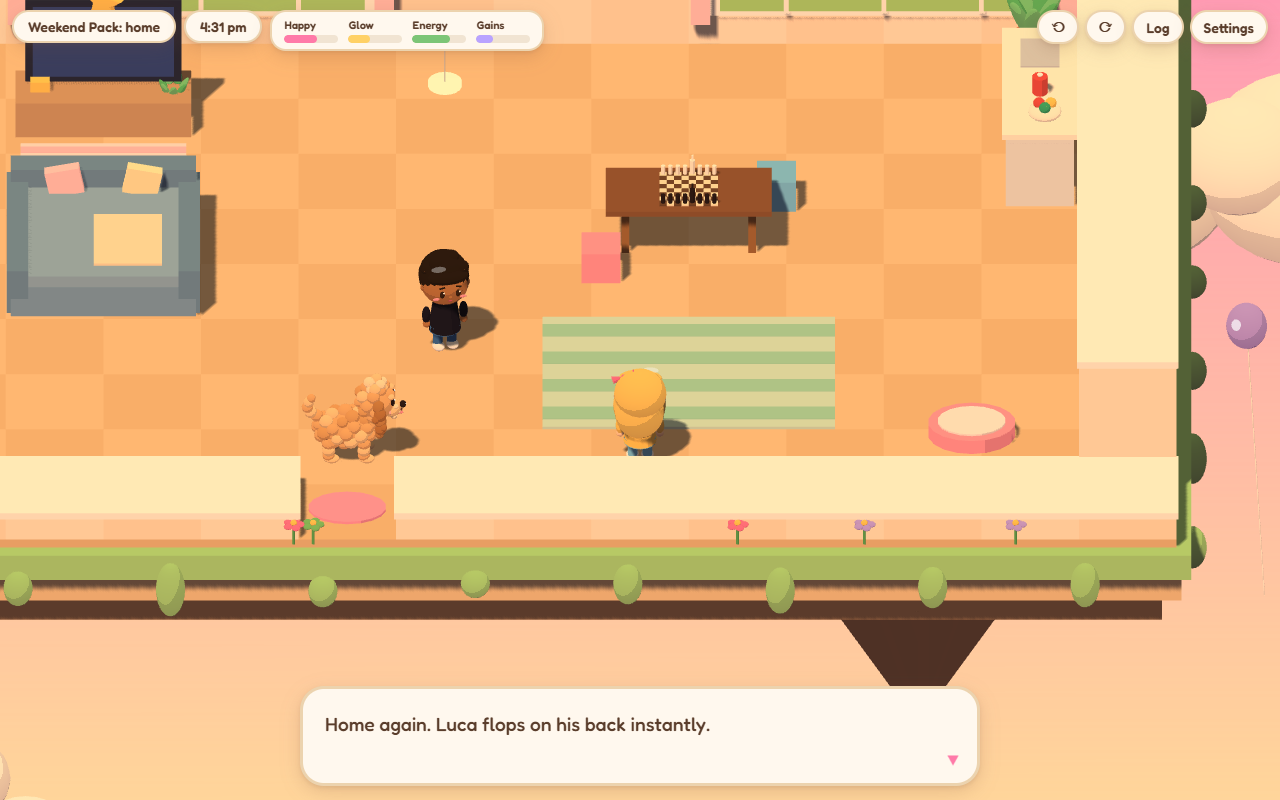
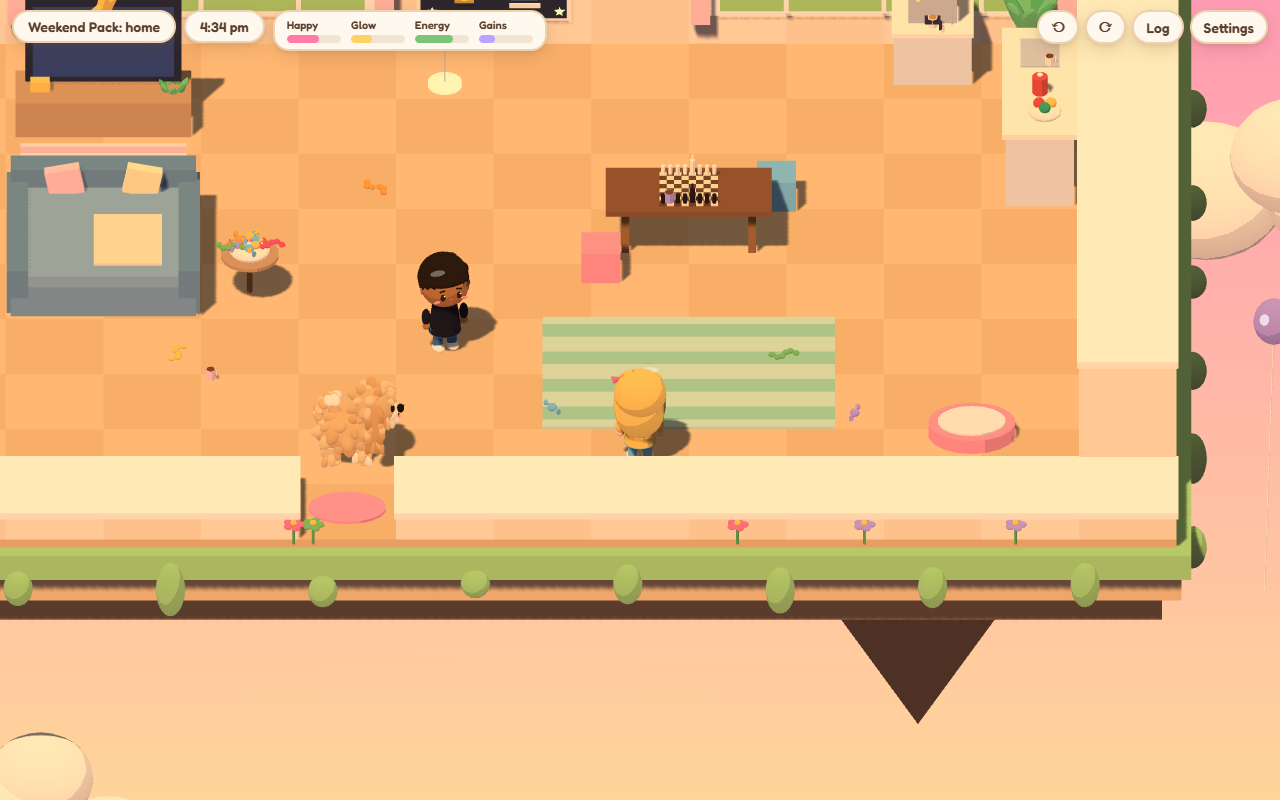
feat(v2): lived-in rooms - rap poster, coffee and lollies
Bedroom: original rap poster, coffee pod station, lolly jar on the
nightstand, mugs and wrapped lollies scattered about. Weekend home:
the same poster, an espresso machine, a lolly bowl, snakes and mugs.

Claude-Session: https://claude.ai/code/session_018Gqj7KPQujXrDxQhtBq1g4

diff --git a/v2/index.html b/v2/index.html
@@ -934,6 +934,58 @@ function makeFairyLights(parent, x0, z0, x1, z1, y, n) {
   for (let i = 0; i <= n; i++) { const t = i / n; const sag = Math.sin(t * Math.PI) * 0.35; const b = mk(G_SPH, cols[i % 4], [0.09, 0.11, 0.09], [lerp(x0, x1, t), y - sag, lerp(z0, z1, t)], g, { glow: true }); b.userData.tw = Math.random() * TAU; }
   g.userData.fairy = true; return g;
 }
+/* ---------------- little lived-in details: lollies, coffee, a rap poster ---------------- */
+const LOLLY_COLS = ['#ff5c7a', '#ffd166', '#7fc8f8', '#7cc576', '#b9a3ff', '#ffa94d'];
+// a wrapped lolly: a round sweet with twisted wrapper ends
+function makeLolly(parent, x, y, z, col, rot) {
+  const g = grp(parent, x, y, z); g.rotation.y = rot || 0;
+  mk(G_SPH, col, [0.1, 0.08, 0.1], [0, 0.04, 0], g, { noShadow: true });
+  [-1, 1].forEach(s => { const e = mk(G_CONE, col, [0.07, 0.07, 0.05], [s * 0.08, 0.04, 0], g, { noShadow: true }); e.rotation.z = s * Math.PI / 2; });
+  return g;
+}
+// a jelly snake, curled in an S
+function makeSnake(parent, x, y, z, col, rot) {
+  const g = grp(parent, x, y, z); g.rotation.y = rot || 0;
+  for (let i = 0; i < 6; i++) mk(G_SPH, i === 5 ? col : [col, '#fff4e0'][i % 2 && i > 3 ? 1 : 0], [0.07, 0.05, 0.07], [i * 0.05, 0.03, Math.sin(i * 1.3) * 0.05], g, { noShadow: true });
+  return g;
+}
+function makeMug(parent, x, y, z, col, coffee) {
+  const g = grp(parent, x, y, z);
+  mk(G_CYL, col || '#fffaf0', [0.1, 0.11, 0.1], [0, 0.055, 0], g); mk(G_CYL, coffee || '#7a4a2a', [0.085, 0.01, 0.085], [0, 0.108, 0], g, { noShadow: true });
+  const h = mk(geo('ring', () => new THREE.TorusGeometry(0.5, 0.12, 6, 16)), col || '#fffaf0', [0.06, 0.06, 0.06], [0.06, 0.06, 0], g, { noShadow: true }); h.rotation.y = Math.PI / 2;
+  return g;
+}
+function makeLollyJar(parent, x, y, z) {
+  const g = grp(parent, x, y, z);
+  for (let i = 0; i < 14; i++) mk(G_SPH, LOLLY_COLS[i % 6], [0.07, 0.07, 0.07], [Math.cos(i * 2.1) * 0.06, 0.05 + Math.floor(i / 4) * 0.055, Math.sin(i * 2.1) * 0.06], g, { noShadow: true });
+  mk(G_CYL, '#e8f7ff', [0.26, 0.3, 0.26], [0, 0.15, 0], g, { alpha: 0.35, noShadow: true });
+  mk(G_CYL, '#ff7aa8', [0.2, 0.06, 0.2], [0, 0.32, 0], g); mk(G_SPH, '#ffd1e1', [0.08, 0.05, 0.08], [0, 0.36, 0], g);
+  return g;
+}
+// an original rap poster: gold mic, crown, stars and title bars (no real artwork)
+function makeRapPoster(w) {
+  const g = new THREE.Group(), pw = Math.min(1.5, w * 0.8);
+  mk(G_BOX, '#fffaf0', [pw + 0.08, 1.08, 0.05], [0, 0.85, 0.01], g);
+  mk(G_BOX, '#2b2d42', [pw, 1.0, 0.06], [0, 0.85, 0.02], g);
+  mk(G_BOX, '#ff5c7a', [pw, 0.12, 0.065], [0, 1.24, 0.02], g, { noShadow: true });
+  const mic = grp(g, -pw * 0.2, 0.78, 0.07); mk(G_SPH, '#ffd166', [0.18, 0.2, 0.08], [0, 0.14, 0], mic, { glow: true }); mk(G_BOX, '#ffd166', [0.06, 0.26, 0.04], [0, -0.06, 0], mic, { glow: true }); mk(G_BOX, '#c9a24a', [0.2, 0.03, 0.04], [0, -0.2, 0], mic);
+  const cr = grp(g, pw * 0.2, 0.98, 0.07); mk(G_BOX, '#ffd166', [0.3, 0.07, 0.03], [0, 0, 0], cr, { glow: true }); [-0.1, 0, 0.1].forEach(x => mk(G_CONE, '#ffd166', [0.07, 0.12, 0.03], [x, 0.09, 0], cr, { glow: true }));
+  [[0.2, 0.72, 0.36, '#fffaf0'], [0.2, 0.62, 0.28, '#7fc8f8'], [0.2, 0.52, 0.32, '#fffaf0']].forEach(([x, y, l, c]) => mk(G_BOX, c, [l, 0.05, 0.02], [pw * x + 0.02, y, 0.07], g, { noShadow: true }));
+  [[-0.5, 1.08], [0.45, 0.45], [-0.42, 0.45]].forEach(([x, y]) => mk(G_STAR, '#fff4b0', [0.1, 0.1, 0.1], [x * pw, y, 0.07], g, { noShadow: true, glow: true }));
+  return g;
+}
+WALL_BUILDERS['bedroom:R'] = makeRapPoster;
+WALL_BUILDERS['home:R'] = makeRapPoster;
+// bedroom coffee station: a little cart with a pod machine, pods and mugs
+OBJ_BUILDERS['bedroom:C'] = () => {
+  const g = new THREE.Group();
+  mk(G_BOX, '#ffe3ec', [0.8, 0.62, 0.55], [0, 0.31, 0], g); mk(G_BOX, '#fffaf0', [0.86, 0.05, 0.6], [0, 0.64, 0], g);
+  mk(G_BOX, '#3a3148', [0.28, 0.36, 0.3], [-0.16, 0.84, -0.05], g); mk(G_BOX, '#ff9fb8', [0.2, 0.05, 0.02], [-0.16, 0.9, 0.11], g, { glow: true }); mk(G_CYL, '#c7ccd6', [0.05, 0.06, 0.05], [-0.16, 0.72, 0.07], g, { noShadow: true });
+  for (let i = 0; i < 6; i++) mk(G_CYL, LOLLY_COLS[i], [0.06, 0.04, 0.06], [0.1 + (i % 3) * 0.08, 0.68, -0.1 + Math.floor(i / 3) * 0.08], g, { noShadow: true });
+  makeMug(g, 0.25, 0.665, 0.14, '#ffd1e1'); makeMug(g, -0.16, 0.665, 0.12, '#fffaf0');
+  return g;
+};
+OBJ_BUILDERS['bedroom:j'] = () => { const g = new THREE.Group(); mk(G_CYL, '#fff0f6', [0.55, 0.5, 0.55], [0, 0.25, 0], g); mk(G_CYL, '#ffd1e1', [0.6, 0.05, 0.6], [0, 0.52, 0], g); makeLollyJar(g, -0.08, 0.545, 0); makeMug(g, 0.17, 0.545, 0.1, '#b9a3ff'); return g; };
 function makePlant(parent, x, z, big) {
   const g = grp(parent, x, 0, z), s = big ? 1.3 : 1;
   mk(G_CYL, '#e8916b', [0.32 * s, 0.3 * s, 0.32 * s], [0, 0.15 * s, 0], g); mk(G_CYL, '#d97a55', [0.36 * s, 0.06, 0.36 * s], [0, 0.3 * s, 0], g);
@@ -1595,10 +1647,16 @@ const MAPS = {
   bedroom: {
     theme: 'bedroom', title: 'Chapter 1: Wake up', sky: 'morning', edge: GRASS,
     floor: ['#f6e3ff', '#efd8fb'], wall: ['#ffd1e1', '#ffc6da'],
-    rows: ["#o######GGGG###", "#..ww.kk.vv.bb#", "#.........x.bb#", "#........S....#", "#..x..........#", "#.............#", "#.......x.....#", "#.....h.......#", "#..M..........#", "######D########"],
+    rows: ["#o###R##GGGG###", "#..ww.kk.vvjbb#", "#.........x.bb#", "#........S....#", "#..x..........#", "#............C#", "#.......x.....#", "#.....h.......#", "#..M..........#", "######D########"],
     start: { x: 7, z: 5, dir: 'down' }, luca: { x: 8, z: 5 },
     npcs: c => c === 'M' ? LOOK.mum : null,
-    decorate(g) { mk(G_CYL, '#ffc2d6', [4.2, 0.03, 3], [6.5, 0.015, 5], g, { noShadow: true }); mk(G_CYL, '#fff0f6', [3.2, 0.035, 2.2], [6.5, 0.02, 5], g, { noShadow: true }); },
+    decorate(g) {
+      mk(G_CYL, '#ffc2d6', [4.2, 0.03, 3], [6.5, 0.015, 5], g, { noShadow: true }); mk(G_CYL, '#fff0f6', [3.2, 0.035, 2.2], [6.5, 0.02, 5], g, { noShadow: true });
+      // lollies and coffee cups everywhere: a well-loved room
+      [[5.2, 4.3], [5.6, 4.6], [7.9, 5.9], [8.3, 4.2], [4.6, 5.7], [11.4, 3.2], [11.8, 3.5], [2.2, 6.6], [12.6, 7.4]].forEach(([x, z], i) => (i % 3 === 2 ? makeSnake : makeLolly)(g, x, 0.03, z, LOLLY_COLS[i % 6], i * 0.9));
+      makeMug(g, 10.25, 0.5, 1.2, '#7fc8f8'); makeMug(g, 6.2, 1.32, 0.95, '#ffd1e1'); makeMug(g, 3.2, 0.02, 7.7, '#fffaf0');
+      for (let i = 0; i < 4; i++) makeLolly(g, 6.65 + i * 0.13, 1.33, 0.95, LOLLY_COLS[(i + 2) % 6], i);
+    },
     hints: () => [!F.outfit && 'w', !F.skincare && 'v', !F.music && 'S', !F.mum && 'M', F.outfit && F.skincare && F.music && 'D'],
     onEnter() {
       G.wearing = 'pj';
@@ -1615,6 +1673,9 @@ const MAPS = {
       k: () => say(["Sooo many books! Thank goodness I have a Kobo."], () => secret('book')),
       o: () => secret('owl'),
       G: () => say("Birthday bunting. Mum was up early."),
+      R: () => say(["A rap poster: gold mic, a crown and a lot of attitude.", "Tupac, J. Cole and Kendrick. The morning hype squad."]),
+      C: () => { const first = !F.bedCoffee; F.bedCoffee = true; if (first) stat('energy', 6, true); say(first ? ["The coffee station. Pods lined up like trophies.", "One quick coffee before the big day. Bzzzt."] : "The coffee station. Maybe just one more pod."); },
+      j: () => { const first = !F.bedLolly; F.bedLolly = true; if (first) stat('happy', 3, true); say(first ? ["The lolly jar: snakes, milk bottles and freckles.", "One for the road. Okay, three."] : "The lolly jar is looking suspiciously empty."); },
       b: () => say("Tempting to crawl back in. But it's your birthday!"),
       M: () => talkMum()
     }
@@ -2313,7 +2374,7 @@ CONFIG.weekend = {
 };
 const WK = CONFIG.weekend;
 BADGES.aisle = { n: 'Centre aisle victim', how: 'Grab an ALDI special buy', pack: true };
-const WK_FLAGS = ['wkBaths', 'wkGroceries', 'wkFetch', 'wkMovie', 'wkActivity'];
+const WK_FLAGS = ['wkBaths', 'wkGroceries', 'wkFetch', 'wkMovie', 'wkActivity', 'wkCoffee', 'wkLolly'];
 Object.assign(SCENE_TIME, { baths: 9 * 60 + 10, aldi: 11 * 60 + 20, park: 14 * 60, home: 16 * 60 + 30, wnight: 19 * 60, wend: 22 * 60 + 30 });
 Object.assign(NPC_CHARS, { baths: 'A', shop: 'A', park: 'Ayko', home: 'A' });
 let WKLOG = {};
@@ -2493,6 +2554,23 @@ OB['home:k'] = (w, h) => {
   return g;
 };
 OB['home:p'] = () => makePlant(null, 0, 0, true);
+// the espresso machine: portafilter, steam wand, cups warming on top
+OB['home:e'] = () => {
+  const g = new THREE.Group();
+  mk(G_BOX, '#e7ebf1', [0.8, 0.6, 0.6], [0, 0.3, -0.05], g); mk(G_BOX, '#fffaf0', [0.84, 0.05, 0.64], [0, 0.62, -0.05], g);
+  mk(G_BOX, '#c7ccd6', [0.5, 0.42, 0.36], [0, 0.86, -0.1], g); mk(G_BOX, '#3a3148', [0.16, 0.05, 0.14], [0, 0.72, 0.1], g); mk(G_CYL, '#3a3148', [0.03, 0.14, 0.03], [0.08, 0.72, 0.22], g).rotation.x = Math.PI / 2;
+  mk(G_CYL, '#c7ccd6', [0.025, 0.2, 0.025], [0.2, 0.74, 0.08], g, { noShadow: true }); mk(G_SPH, '#ffd166', [0.05, 0.05, 0.05], [-0.15, 0.95, 0.09], g, { glow: true });
+  makeMug(g, 0, 0.645, 0.12, '#fffaf0', '#c8955e'); [-0.12, 0.12].forEach(x => makeMug(g, x, 1.07, -0.1, '#ffd1e1'));
+  return g;
+};
+// a side table with the lolly bowl
+OB['home:j'] = () => {
+  const g = new THREE.Group();
+  mk(G_CYL, '#c89f7a', [0.6, 0.04, 0.6], [0, 0.46, 0], g); mk(G_CYL, '#a8744f', [0.06, 0.46, 0.06], [0, 0.23, 0], g);
+  mk(G_SPH, '#fffaf0', [0.42, 0.18, 0.42], [0, 0.52, 0], g);
+  for (let i = 0; i < 9; i++) (i % 3 ? makeLolly : makeSnake)(g, Math.cos(i * 0.7) * 0.1 - 0.02, 0.56 + (i % 2) * 0.02, Math.sin(i * 0.7) * 0.1, LOLLY_COLS[i % 6], i);
+  return g;
+};
 WALL_BUILDERS['home:w'] = w => {
   const g = new THREE.Group();
   mk(G_BOX, '#ffffff', [w * 0.92, 0.95, 0.08], [0, 0.85, 0], g); mk(G_BOX, '#bfe6ff', [w * 0.84, 0.8, 0.05], [0, 0.85, 0.03], g, { noShadow: true });
@@ -2618,12 +2696,15 @@ MAPS.park = {
 MAPS.home = {
   theme: 'home', title: 'Weekend Pack: home', sky: 'golden', edge: '#a6dc8f',
   floor: ['#e9c9a0', '#e2bf94'], wall: ['#fff1e0', '#ffe9d2'], trim: '#ffffff',
-  rows: ["###wwww###wwww#", "#............p#", "#..VV........k#", "#..VV........k#", "#..ff....HH...#", "#..ff.........#", "#......A......#", "#.............#", "#.............#", "######D########"],
+  rows: ["###wwwwRR#wwww#", "#...........ep#", "#..VV........k#", "#..VV........k#", "#..ff....HH...#", "#..ffj........#", "#......A......#", "#.............#", "#.............#", "######D########"],
   start: { x: 9, z: 8, dir: 'up' }, luca: { x: 6, z: 8 },
   npcs: npcPaulo,
   hints: () => [!F.wkMovie && 'V', F.wkMovie && !F.wkActivity && 'H', F.wkMovie && F.wkActivity && 'D'],
   decorate(g) {
     makeRug(g, 9.5, 6.5, 3, 2, ['#c9e7d8', '#9fd6bc']);
+    // mugs and lollies wherever people sat down
+    makeMug(g, 9.3, 0.61, 4.25, '#b9a3ff'); makeMug(g, 13.2, 0.9, 2.2, '#fffaf0'); makeMug(g, 4.6, 0.02, 6.6, '#ffd1e1');
+    [[4.9, 4.2], [4.2, 6.3], [8.1, 7.2], [10.6, 6.2], [11.2, 7.3], [6.2, 3.1]].forEach(([x, z], i) => (i % 2 ? makeSnake : makeLolly)(g, x, 0.03, z, LOLLY_COLS[i % 6], i * 1.1));
     mk(G_CYL, '#fff4b0', [0.35, 0.05, 0.35], [7, 1.9, 4], g, { glow: true, noShadow: true }); mk(G_CYL, '#c7ccd6', [0.01, 0.5, 0.01], [7, 2.15, 4], g, { noShadow: true });
     const bed = grp(g, 12.4, 0, 7.6); mk(G_CYL, '#ff9fb8', [0.9, 0.16, 0.7], [0, 0.08, 0], bed); mk(G_CYL, '#fff0f6', [0.7, 0.12, 0.52], [0, 0.12, 0], bed, { noShadow: true });
     for (let i = 0; i < 3; i++) mk(G_BOX, ['#ffd1e1', '#c9e7d8', '#fff0c2'][i], [0.5, 0.35, 0.03], [3 + i * 0.7 + (i ? 4 : 0), 1.1, 0.53], g);
@@ -2639,6 +2720,9 @@ MAPS.home = {
     H: () => !F.wkMovie ? say({ n: CONFIG.boyfriend, t: "Movie first, then I'll lose at chess." }) : F.wkActivity ? say("Good game. Rematch after dinner.") : chessGame(),
     k: () => !F.wkMovie ? say("Snacks later, film's starting.") : F.wkActivity ? say("Picnic's already packed.") : picnicChoice(),
     f: () => say("The comfiest couch in Sydney. Luca's throne too."),
+    R: () => say(["A rap poster: gold mic, a crown and a lot of attitude.", "Tupac, J. Cole and Kendrick. The morning hype squad."]),
+    e: () => { const first = !F.wkCoffee; F.wkCoffee = true; if (first) stat('energy', 6, true); say(first ? [{ n: CONFIG.boyfriend, t: "Two flat whites, coming up." }, "The machine hisses. The whole house smells like a cafe."] : "The coffee machine. Paulo is on his third already."); },
+    j: () => { const first = !F.wkLolly; F.wkLolly = true; if (first) stat('happy', 3, true); say(first ? ["The lolly bowl.", { n: CONFIG.boyfriend, t: "I did NOT eat all the red snakes." }] : "Only the green snakes are left. Classic."); },
     w: () => say("Afternoon light pours in over the garden."),
     p: () => say("A happy little pot plant."),
     A: () => say(!F.wkMovie ? { n: CONFIG.boyfriend, t: "Home sweet home. Movie on the telly?" } : !F.wkActivity ? { n: CONFIG.boyfriend, t: "Chess board's out, or shall we pack a picnic?" } : { n: CONFIG.boyfriend, t: "What a day. Dinner out to finish it off?" })

diff --git a/v2/src/08-weekend.js b/v2/src/08-weekend.js
@@ -39,7 +39,7 @@ CONFIG.weekend = {
 };
 const WK = CONFIG.weekend;
 BADGES.aisle = { n: 'Centre aisle victim', how: 'Grab an ALDI special buy', pack: true };
-const WK_FLAGS = ['wkBaths', 'wkGroceries', 'wkFetch', 'wkMovie', 'wkActivity'];
+const WK_FLAGS = ['wkBaths', 'wkGroceries', 'wkFetch', 'wkMovie', 'wkActivity', 'wkCoffee', 'wkLolly'];
 Object.assign(SCENE_TIME, { baths: 9 * 60 + 10, aldi: 11 * 60 + 20, park: 14 * 60, home: 16 * 60 + 30, wnight: 19 * 60, wend: 22 * 60 + 30 });
 Object.assign(NPC_CHARS, { baths: 'A', shop: 'A', park: 'Ayko', home: 'A' });
 let WKLOG = {};
@@ -219,6 +219,23 @@ OB['home:k'] = (w, h) => {
   return g;
 };
 OB['home:p'] = () => makePlant(null, 0, 0, true);
+// the espresso machine: portafilter, steam wand, cups warming on top
+OB['home:e'] = () => {
+  const g = new THREE.Group();
+  mk(G_BOX, '#e7ebf1', [0.8, 0.6, 0.6], [0, 0.3, -0.05], g); mk(G_BOX, '#fffaf0', [0.84, 0.05, 0.64], [0, 0.62, -0.05], g);
+  mk(G_BOX, '#c7ccd6', [0.5, 0.42, 0.36], [0, 0.86, -0.1], g); mk(G_BOX, '#3a3148', [0.16, 0.05, 0.14], [0, 0.72, 0.1], g); mk(G_CYL, '#3a3148', [0.03, 0.14, 0.03], [0.08, 0.72, 0.22], g).rotation.x = Math.PI / 2;
+  mk(G_CYL, '#c7ccd6', [0.025, 0.2, 0.025], [0.2, 0.74, 0.08], g, { noShadow: true }); mk(G_SPH, '#ffd166', [0.05, 0.05, 0.05], [-0.15, 0.95, 0.09], g, { glow: true });
+  makeMug(g, 0, 0.645, 0.12, '#fffaf0', '#c8955e'); [-0.12, 0.12].forEach(x => makeMug(g, x, 1.07, -0.1, '#ffd1e1'));
+  return g;
+};
+// a side table with the lolly bowl
+OB['home:j'] = () => {
+  const g = new THREE.Group();
+  mk(G_CYL, '#c89f7a', [0.6, 0.04, 0.6], [0, 0.46, 0], g); mk(G_CYL, '#a8744f', [0.06, 0.46, 0.06], [0, 0.23, 0], g);
+  mk(G_SPH, '#fffaf0', [0.42, 0.18, 0.42], [0, 0.52, 0], g);
+  for (let i = 0; i < 9; i++) (i % 3 ? makeLolly : makeSnake)(g, Math.cos(i * 0.7) * 0.1 - 0.02, 0.56 + (i % 2) * 0.02, Math.sin(i * 0.7) * 0.1, LOLLY_COLS[i % 6], i);
+  return g;
+};
 WALL_BUILDERS['home:w'] = w => {
   const g = new THREE.Group();
   mk(G_BOX, '#ffffff', [w * 0.92, 0.95, 0.08], [0, 0.85, 0], g); mk(G_BOX, '#bfe6ff', [w * 0.84, 0.8, 0.05], [0, 0.85, 0.03], g, { noShadow: true });
@@ -344,12 +361,15 @@ MAPS.park = {
 MAPS.home = {
   theme: 'home', title: 'Weekend Pack: home', sky: 'golden', edge: '#a6dc8f',
   floor: ['#e9c9a0', '#e2bf94'], wall: ['#fff1e0', '#ffe9d2'], trim: '#ffffff',
-  rows: ["###wwww###wwww#", "#............p#", "#..VV........k#", "#..VV........k#", "#..ff....HH...#", "#..ff.........#", "#......A......#", "#.............#", "#.............#", "######D########"],
+  rows: ["###wwwwRR#wwww#", "#...........ep#", "#..VV........k#", "#..VV........k#", "#..ff....HH...#", "#..ffj........#", "#......A......#", "#.............#", "#.............#", "######D########"],
   start: { x: 9, z: 8, dir: 'up' }, luca: { x: 6, z: 8 },
   npcs: npcPaulo,
   hints: () => [!F.wkMovie && 'V', F.wkMovie && !F.wkActivity && 'H', F.wkMovie && F.wkActivity && 'D'],
   decorate(g) {
     makeRug(g, 9.5, 6.5, 3, 2, ['#c9e7d8', '#9fd6bc']);
+    // mugs and lollies wherever people sat down
+    makeMug(g, 9.3, 0.61, 4.25, '#b9a3ff'); makeMug(g, 13.2, 0.9, 2.2, '#fffaf0'); makeMug(g, 4.6, 0.02, 6.6, '#ffd1e1');
+    [[4.9, 4.2], [4.2, 6.3], [8.1, 7.2], [10.6, 6.2], [11.2, 7.3], [6.2, 3.1]].forEach(([x, z], i) => (i % 2 ? makeSnake : makeLolly)(g, x, 0.03, z, LOLLY_COLS[i % 6], i * 1.1));
     mk(G_CYL, '#fff4b0', [0.35, 0.05, 0.35], [7, 1.9, 4], g, { glow: true, noShadow: true }); mk(G_CYL, '#c7ccd6', [0.01, 0.5, 0.01], [7, 2.15, 4], g, { noShadow: true });
     const bed = grp(g, 12.4, 0, 7.6); mk(G_CYL, '#ff9fb8', [0.9, 0.16, 0.7], [0, 0.08, 0], bed); mk(G_CYL, '#fff0f6', [0.7, 0.12, 0.52], [0, 0.12, 0], bed, { noShadow: true });
     for (let i = 0; i < 3; i++) mk(G_BOX, ['#ffd1e1', '#c9e7d8', '#fff0c2'][i], [0.5, 0.35, 0.03], [3 + i * 0.7 + (i ? 4 : 0), 1.1, 0.53], g);
@@ -365,6 +385,9 @@ MAPS.home = {
     H: () => !F.wkMovie ? say({ n: CONFIG.boyfriend, t: "Movie first, then I'll lose at chess." }) : F.wkActivity ? say("Good game. Rematch after dinner.") : chessGame(),
     k: () => !F.wkMovie ? say("Snacks later, film's starting.") : F.wkActivity ? say("Picnic's already packed.") : picnicChoice(),
     f: () => say("The comfiest couch in Sydney. Luca's throne too."),
+    R: () => say(["A rap poster: gold mic, a crown and a lot of attitude.", "Tupac, J. Cole and Kendrick. The morning hype squad."]),
+    e: () => { const first = !F.wkCoffee; F.wkCoffee = true; if (first) stat('energy', 6, true); say(first ? [{ n: CONFIG.boyfriend, t: "Two flat whites, coming up." }, "The machine hisses. The whole house smells like a cafe."] : "The coffee machine. Paulo is on his third already."); },
+    j: () => { const first = !F.wkLolly; F.wkLolly = true; if (first) stat('happy', 3, true); say(first ? ["The lolly bowl.", { n: CONFIG.boyfriend, t: "I did NOT eat all the red snakes." }] : "Only the green snakes are left. Classic."); },
     w: () => say("Afternoon light pours in over the garden."),
     p: () => say("A happy little pot plant."),
     A: () => say(!F.wkMovie ? { n: CONFIG.boyfriend, t: "Home sweet home. Movie on the telly?" } : !F.wkActivity ? { n: CONFIG.boyfriend, t: "Chess board's out, or shall we pack a picnic?" } : { n: CONFIG.boyfriend, t: "What a day. Dinner out to finish it off?" })

diff --git a/v2/src/03-art.js b/v2/src/03-art.js
@@ -311,6 +311,58 @@ function makeFairyLights(parent, x0, z0, x1, z1, y, n) {
   for (let i = 0; i <= n; i++) { const t = i / n; const sag = Math.sin(t * Math.PI) * 0.35; const b = mk(G_SPH, cols[i % 4], [0.09, 0.11, 0.09], [lerp(x0, x1, t), y - sag, lerp(z0, z1, t)], g, { glow: true }); b.userData.tw = Math.random() * TAU; }
   g.userData.fairy = true; return g;
 }
+/* ---------------- little lived-in details: lollies, coffee, a rap poster ---------------- */
+const LOLLY_COLS = ['#ff5c7a', '#ffd166', '#7fc8f8', '#7cc576', '#b9a3ff', '#ffa94d'];
+// a wrapped lolly: a round sweet with twisted wrapper ends
+function makeLolly(parent, x, y, z, col, rot) {
+  const g = grp(parent, x, y, z); g.rotation.y = rot || 0;
+  mk(G_SPH, col, [0.1, 0.08, 0.1], [0, 0.04, 0], g, { noShadow: true });
+  [-1, 1].forEach(s => { const e = mk(G_CONE, col, [0.07, 0.07, 0.05], [s * 0.08, 0.04, 0], g, { noShadow: true }); e.rotation.z = s * Math.PI / 2; });
+  return g;
+}
+// a jelly snake, curled in an S
+function makeSnake(parent, x, y, z, col, rot) {
+  const g = grp(parent, x, y, z); g.rotation.y = rot || 0;
+  for (let i = 0; i < 6; i++) mk(G_SPH, i === 5 ? col : [col, '#fff4e0'][i % 2 && i > 3 ? 1 : 0], [0.07, 0.05, 0.07], [i * 0.05, 0.03, Math.sin(i * 1.3) * 0.05], g, { noShadow: true });
+  return g;
+}
+function makeMug(parent, x, y, z, col, coffee) {
+  const g = grp(parent, x, y, z);
+  mk(G_CYL, col || '#fffaf0', [0.1, 0.11, 0.1], [0, 0.055, 0], g); mk(G_CYL, coffee || '#7a4a2a', [0.085, 0.01, 0.085], [0, 0.108, 0], g, { noShadow: true });
+  const h = mk(geo('ring', () => new THREE.TorusGeometry(0.5, 0.12, 6, 16)), col || '#fffaf0', [0.06, 0.06, 0.06], [0.06, 0.06, 0], g, { noShadow: true }); h.rotation.y = Math.PI / 2;
+  return g;
+}
+function makeLollyJar(parent, x, y, z) {
+  const g = grp(parent, x, y, z);
+  for (let i = 0; i < 14; i++) mk(G_SPH, LOLLY_COLS[i % 6], [0.07, 0.07, 0.07], [Math.cos(i * 2.1) * 0.06, 0.05 + Math.floor(i / 4) * 0.055, Math.sin(i * 2.1) * 0.06], g, { noShadow: true });
+  mk(G_CYL, '#e8f7ff', [0.26, 0.3, 0.26], [0, 0.15, 0], g, { alpha: 0.35, noShadow: true });
+  mk(G_CYL, '#ff7aa8', [0.2, 0.06, 0.2], [0, 0.32, 0], g); mk(G_SPH, '#ffd1e1', [0.08, 0.05, 0.08], [0, 0.36, 0], g);
+  return g;
+}
+// an original rap poster: gold mic, crown, stars and title bars (no real artwork)
+function makeRapPoster(w) {
+  const g = new THREE.Group(), pw = Math.min(1.5, w * 0.8);
+  mk(G_BOX, '#fffaf0', [pw + 0.08, 1.08, 0.05], [0, 0.85, 0.01], g);
+  mk(G_BOX, '#2b2d42', [pw, 1.0, 0.06], [0, 0.85, 0.02], g);
+  mk(G_BOX, '#ff5c7a', [pw, 0.12, 0.065], [0, 1.24, 0.02], g, { noShadow: true });
+  const mic = grp(g, -pw * 0.2, 0.78, 0.07); mk(G_SPH, '#ffd166', [0.18, 0.2, 0.08], [0, 0.14, 0], mic, { glow: true }); mk(G_BOX, '#ffd166', [0.06, 0.26, 0.04], [0, -0.06, 0], mic, { glow: true }); mk(G_BOX, '#c9a24a', [0.2, 0.03, 0.04], [0, -0.2, 0], mic);
+  const cr = grp(g, pw * 0.2, 0.98, 0.07); mk(G_BOX, '#ffd166', [0.3, 0.07, 0.03], [0, 0, 0], cr, { glow: true }); [-0.1, 0, 0.1].forEach(x => mk(G_CONE, '#ffd166', [0.07, 0.12, 0.03], [x, 0.09, 0], cr, { glow: true }));
+  [[0.2, 0.72, 0.36, '#fffaf0'], [0.2, 0.62, 0.28, '#7fc8f8'], [0.2, 0.52, 0.32, '#fffaf0']].forEach(([x, y, l, c]) => mk(G_BOX, c, [l, 0.05, 0.02], [pw * x + 0.02, y, 0.07], g, { noShadow: true }));
+  [[-0.5, 1.08], [0.45, 0.45], [-0.42, 0.45]].forEach(([x, y]) => mk(G_STAR, '#fff4b0', [0.1, 0.1, 0.1], [x * pw, y, 0.07], g, { noShadow: true, glow: true }));
+  return g;
+}
+WALL_BUILDERS['bedroom:R'] = makeRapPoster;
+WALL_BUILDERS['home:R'] = makeRapPoster;
+// bedroom coffee station: a little cart with a pod machine, pods and mugs
+OBJ_BUILDERS['bedroom:C'] = () => {
+  const g = new THREE.Group();
+  mk(G_BOX, '#ffe3ec', [0.8, 0.62, 0.55], [0, 0.31, 0], g); mk(G_BOX, '#fffaf0', [0.86, 0.05, 0.6], [0, 0.64, 0], g);
+  mk(G_BOX, '#3a3148', [0.28, 0.36, 0.3], [-0.16, 0.84, -0.05], g); mk(G_BOX, '#ff9fb8', [0.2, 0.05, 0.02], [-0.16, 0.9, 0.11], g, { glow: true }); mk(G_CYL, '#c7ccd6', [0.05, 0.06, 0.05], [-0.16, 0.72, 0.07], g, { noShadow: true });
+  for (let i = 0; i < 6; i++) mk(G_CYL, LOLLY_COLS[i], [0.06, 0.04, 0.06], [0.1 + (i % 3) * 0.08, 0.68, -0.1 + Math.floor(i / 3) * 0.08], g, { noShadow: true });
+  makeMug(g, 0.25, 0.665, 0.14, '#ffd1e1'); makeMug(g, -0.16, 0.665, 0.12, '#fffaf0');
+  return g;
+};
+OBJ_BUILDERS['bedroom:j'] = () => { const g = new THREE.Group(); mk(G_CYL, '#fff0f6', [0.55, 0.5, 0.55], [0, 0.25, 0], g); mk(G_CYL, '#ffd1e1', [0.6, 0.05, 0.6], [0, 0.52, 0], g); makeLollyJar(g, -0.08, 0.545, 0); makeMug(g, 0.17, 0.545, 0.1, '#b9a3ff'); return g; };
 function makePlant(parent, x, z, big) {
   const g = grp(parent, x, 0, z), s = big ? 1.3 : 1;
   mk(G_CYL, '#e8916b', [0.32 * s, 0.3 * s, 0.32 * s], [0, 0.15 * s, 0], g); mk(G_CYL, '#d97a55', [0.36 * s, 0.06, 0.36 * s], [0, 0.3 * s, 0], g);

diff --git a/v2/src/06-story.js b/v2/src/06-story.js
@@ -7,10 +7,16 @@ const MAPS = {
   bedroom: {
     theme: 'bedroom', title: 'Chapter 1: Wake up', sky: 'morning', edge: GRASS,
     floor: ['#f6e3ff', '#efd8fb'], wall: ['#ffd1e1', '#ffc6da'],
-    rows: ["#o######GGGG###", "#..ww.kk.vv.bb#", "#.........x.bb#", "#........S....#", "#..x..........#", "#.............#", "#.......x.....#", "#.....h.......#", "#..M..........#", "######D########"],
+    rows: ["#o###R##GGGG###", "#..ww.kk.vvjbb#", "#.........x.bb#", "#........S....#", "#..x..........#", "#............C#", "#.......x.....#", "#.....h.......#", "#..M..........#", "######D########"],
     start: { x: 7, z: 5, dir: 'down' }, luca: { x: 8, z: 5 },
     npcs: c => c === 'M' ? LOOK.mum : null,
-    decorate(g) { mk(G_CYL, '#ffc2d6', [4.2, 0.03, 3], [6.5, 0.015, 5], g, { noShadow: true }); mk(G_CYL, '#fff0f6', [3.2, 0.035, 2.2], [6.5, 0.02, 5], g, { noShadow: true }); },
+    decorate(g) {
+      mk(G_CYL, '#ffc2d6', [4.2, 0.03, 3], [6.5, 0.015, 5], g, { noShadow: true }); mk(G_CYL, '#fff0f6', [3.2, 0.035, 2.2], [6.5, 0.02, 5], g, { noShadow: true });
+      // lollies and coffee cups everywhere: a well-loved room
+      [[5.2, 4.3], [5.6, 4.6], [7.9, 5.9], [8.3, 4.2], [4.6, 5.7], [11.4, 3.2], [11.8, 3.5], [2.2, 6.6], [12.6, 7.4]].forEach(([x, z], i) => (i % 3 === 2 ? makeSnake : makeLolly)(g, x, 0.03, z, LOLLY_COLS[i % 6], i * 0.9));
+      makeMug(g, 10.25, 0.5, 1.2, '#7fc8f8'); makeMug(g, 6.2, 1.32, 0.95, '#ffd1e1'); makeMug(g, 3.2, 0.02, 7.7, '#fffaf0');
+      for (let i = 0; i < 4; i++) makeLolly(g, 6.65 + i * 0.13, 1.33, 0.95, LOLLY_COLS[(i + 2) % 6], i);
+    },
     hints: () => [!F.outfit && 'w', !F.skincare && 'v', !F.music && 'S', !F.mum && 'M', F.outfit && F.skincare && F.music && 'D'],
     onEnter() {
       G.wearing = 'pj';
@@ -27,6 +33,9 @@ const MAPS = {
       k: () => say(["Sooo many books! Thank goodness I have a Kobo."], () => secret('book')),
       o: () => secret('owl'),
       G: () => say("Birthday bunting. Mum was up early."),
+      R: () => say(["A rap poster: gold mic, a crown and a lot of attitude.", "Tupac, J. Cole and Kendrick. The morning hype squad."]),
+      C: () => { const first = !F.bedCoffee; F.bedCoffee = true; if (first) stat('energy', 6, true); say(first ? ["The coffee station. Pods lined up like trophies.", "One quick coffee before the big day. Bzzzt."] : "The coffee station. Maybe just one more pod."); },
+      j: () => { const first = !F.bedLolly; F.bedLolly = true; if (first) stat('happy', 3, true); say(first ? ["The lolly jar: snakes, milk bottles and freckles.", "One for the road. Okay, three."] : "The lolly jar is looking suspiciously empty."); },
       b: () => say("Tempting to crawl back in. But it's your birthday!"),
       M: () => talkMum()
     }
